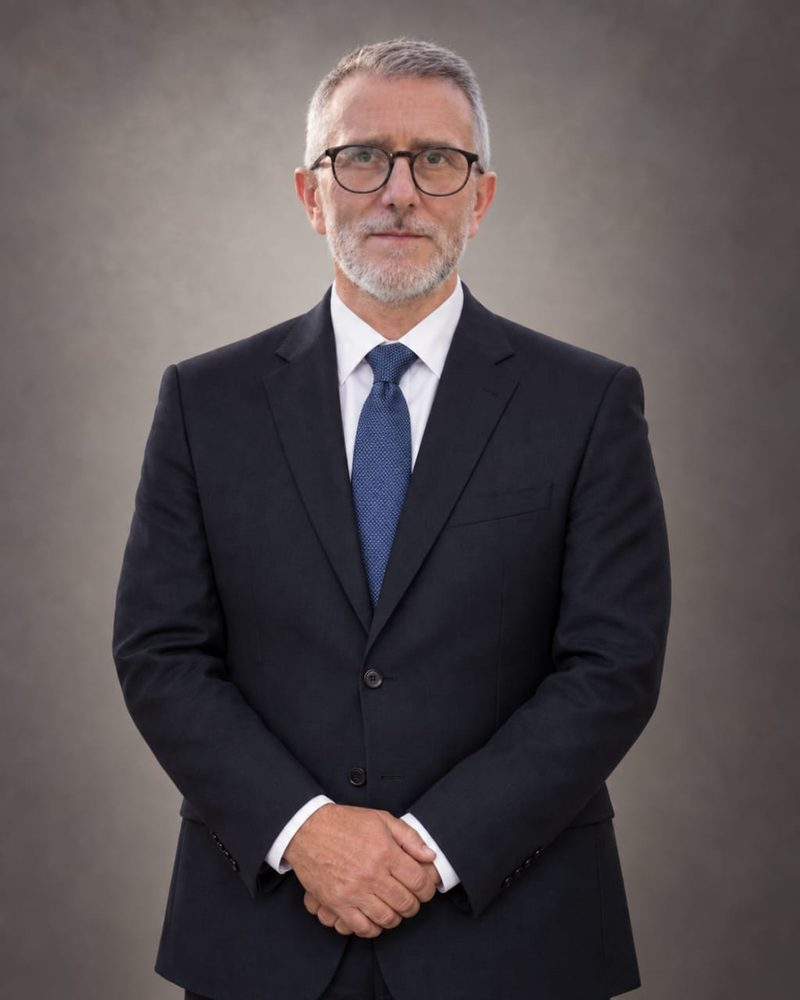
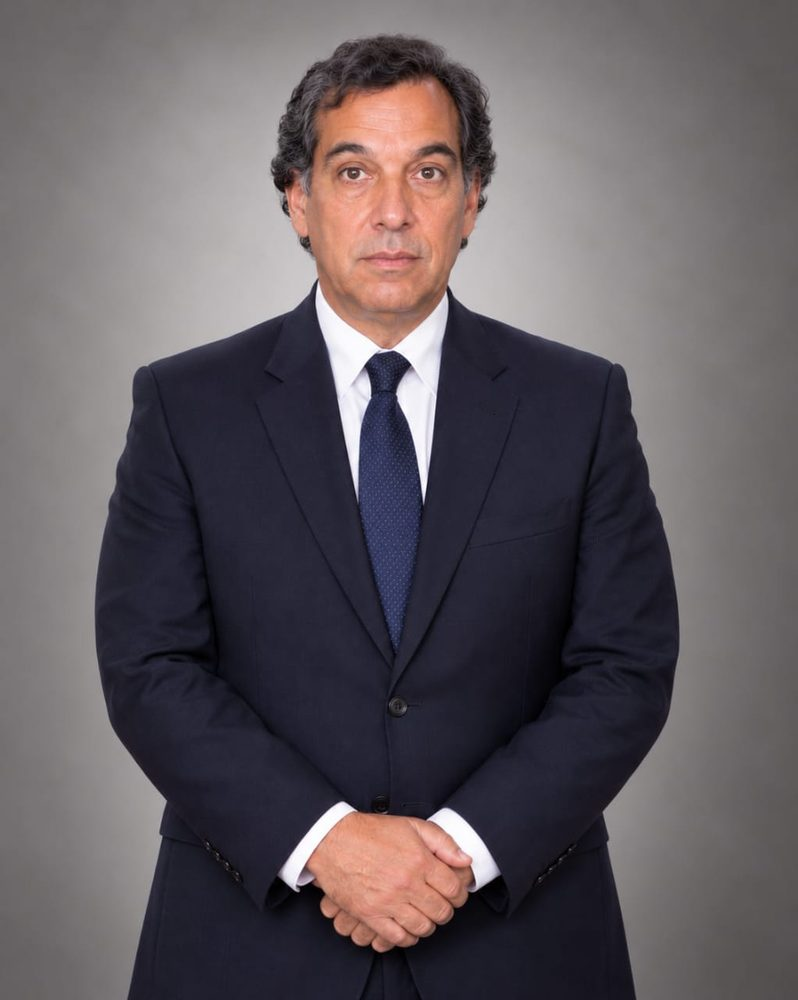
Rectores: fotos, nombres y citas según el video «Voces de nuestra historia»
Reasigna los retratos de Antonio Yelincic, Daniel Rivas, Horacio Aránguiz
Donoso y Guillermo Carvajal según el video institucional, agrega la cita de
cada rector y los títulos «Voces de nuestra historia» y «Un legado que
continúa».

diff --git a/rectores.html b/rectores.html
@@ -168,7 +168,7 @@
   </section>
   <section class="c-seccion c-beige" aria-labelledby="t-galeria">
     <div class="c-contenedor">
-      <h2 id="t-galeria">Línea de tiempo</h2>
+      <h2 id="t-galeria">Voces de nuestra historia</h2>
 <ol class="c-rectores" aria-label="Rectores en orden cronológico">
   <li class="c-rector aparecer" id="jorge-sepulveda-gomez">
     <article class="c-rector__ficha" aria-labelledby="r-jorge-sepulveda-gomez">
@@ -177,6 +177,7 @@
       <div class="c-rector__texto">
         <h3 id="r-jorge-sepulveda-gomez">Jorge Sepúlveda Gómez</h3>
         <p>Rector</p>
+        <blockquote class="c-rector__cita"><p>El Sun Valley será una alternativa educativa diferente para el Valle del Aconcagua.</p></blockquote>
       </div>
     </article>
   </li>
@@ -197,16 +198,18 @@
       <div class="c-rector__texto">
         <h3 id="r-daniel-rivas-monje">Daniel Rivas Monje</h3>
         <p>Rector</p>
+        <blockquote class="c-rector__cita"><p>La exigencia académica y el inglés como segunda lengua es nuestro desafío.</p></blockquote>
       </div>
     </article>
   </li>
-  <li class="c-rector aparecer" id="horacio-aranguiz">
-    <article class="c-rector__ficha" aria-labelledby="r-horacio-aranguiz">
+  <li class="c-rector aparecer" id="horacio-aranguiz-donoso">
+    <article class="c-rector__ficha" aria-labelledby="r-horacio-aranguiz-donoso">
       <p class="c-rector__periodo"><span class="c-rector__numero" aria-hidden="true">04</span><time datetime="1993">1993</time> – <time datetime="2012">2012</time></p>
-      <div class="c-rector__foto foto" data-nombre="rectores/horacio-aranguiz.jpg"><img src="img/rectores/horacio-aranguiz.jpg" width="800" height="1000" loading="lazy" decoding="async" alt="Retrato de Horacio Aránguiz" data-nombre="rectores/horacio-aranguiz.jpg" onerror="sinFoto(this)"></div>
+      <div class="c-rector__foto foto" data-nombre="rectores/horacio-aranguiz-donoso.jpg"><img src="img/rectores/horacio-aranguiz-donoso.jpg" width="800" height="1000" loading="lazy" decoding="async" alt="Retrato de Horacio Aránguiz Donoso" data-nombre="rectores/horacio-aranguiz-donoso.jpg" onerror="sinFoto(this)"></div>
       <div class="c-rector__texto">
-        <h3 id="r-horacio-aranguiz">Horacio Aránguiz</h3>
+        <h3 id="r-horacio-aranguiz-donoso">Horacio Aránguiz Donoso</h3>
         <p>Rector</p>
+        <blockquote class="c-rector__cita"><p>La disciplina y la formación son el eje de nuestro proyecto.</p></blockquote>
       </div>
     </article>
   </li>
@@ -217,6 +220,7 @@
       <div class="c-rector__texto">
         <h3 id="r-guillermo-carvajal-oyanedel">Guillermo Carvajal Oyanedel</h3>
         <p>Rector</p>
+        <blockquote class="c-rector__cita"><p>Hay que abrir la mirada a la diversidad.</p></blockquote>
       </div>
     </article>
   </li>
@@ -227,10 +231,14 @@
       <div class="c-rector__texto">
         <h3 id="r-javier-aguayo-ballestero">Javier Aguayo Ballestero</h3>
         <p>Rector actual</p>
+        <blockquote class="c-rector__cita"><p>Recuperar la esencia y la excelencia académica para proyectar al colegio hacia sus próximos 40 años.</p></blockquote>
       </div>
     </article>
   </li>
 </ol>
+<div class="c-rectores__cierre">
+  <p><strong>Un legado que continúa</strong><span>Colegio Inglés de Los Andes</span></p>
+</div>
     </div>
   </section>
   <section class="c-seccion " aria-labelledby="t-explorar">

diff --git a/css/clasico.css b/css/clasico.css
@@ -485,3 +485,19 @@ html:has(.f-subnav) { scroll-padding-top: calc(var(--alto-cabecera) + 70px); }
   .c-rector__ficha:hover { transform: none; }
   .c-rector__ficha:hover .c-rector__foto img { transform: none; }
 }
+/* Cita de cada rector (tomada del video «Voces de nuestra historia») */
+.c-rector__cita { position: relative; margin: 0.9rem 0 0; padding: 0.85rem 0 0 1.6rem; border-top: 1px solid var(--c-beige); }
+.c-rector__cita::before { content: "\201C"; position: absolute; left: 0; top: 0.55rem; font: 700 2rem/1 var(--fuente-titulos); color: var(--color-acento-oscuro); }
+.c-rector__texto .c-rector__cita p { font: 400 0.98rem/1.5 var(--fuente-texto); letter-spacing: 0; color: var(--color-primario); }
+.c-rector--actual .c-rector__texto .c-rector__cita p { color: var(--color-primario); font-weight: 400; }
+/* Cierre de la línea de tiempo */
+.c-rectores__cierre { display: flex; justify-content: center; margin-top: 3.5rem; text-align: center; }
+.c-rectores__cierre p { margin: 0; padding-top: 1.1rem; border-top: 3px solid var(--color-acento-oscuro); }
+.c-rectores__cierre strong { display: block; font: 600 clamp(1.15rem, 2vw, 1.45rem)/1.2 var(--c-titulos); letter-spacing: 0.08em; text-transform: uppercase; color: var(--color-primario-oscuro); }
+.c-rectores__cierre span { display: block; margin-top: 0.35rem; font-size: 0.9rem; color: var(--color-texto-suave); }
+@media (max-width: 600px) {
+  .c-rector__cita { margin-top: 0.6rem; padding-top: 0.6rem; padding-left: 1.3rem; }
+  .c-rector__cita::before { top: 0.4rem; font-size: 1.6rem; }
+  .c-rector__texto .c-rector__cita p { font-size: 0.9rem; }
+  .c-rectores__cierre { margin-top: 2.5rem; }
+}
